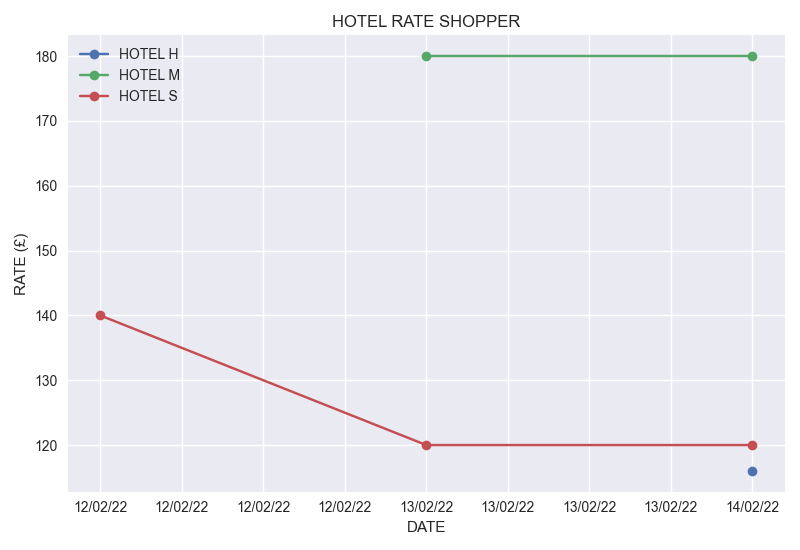
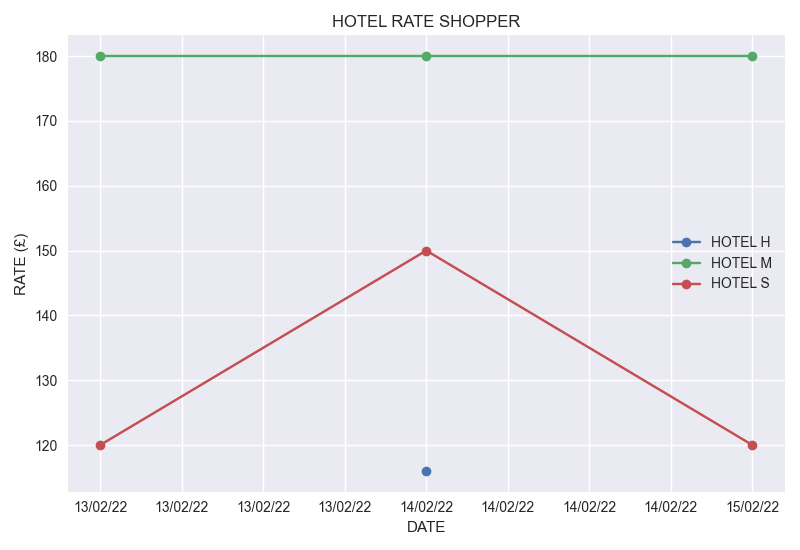
working

diff --git a/gui.py b/gui.py
@@ -2,10 +2,19 @@ import tkinter as tk
 from tkinter import ttk
 from tkcalendar import Calendar
 
+from datetime import date
+
+from selenium import webdriver
+
+from functions import get_hotel_m_rate, get_hotel_h_rate, get_hotel_s_rate
+from charting import plot_chart
+
+import concurrent.futures
+
 root = tk.Tk()
 
 root.title("HOTEL RATE SHOPPER")
-root.geometry('600x400+50+50')
+root.geometry('600x300+50+50')
 
 s= ttk.Style()
 s.theme_use('clam')
@@ -13,30 +22,27 @@ s.theme_use('clam')
 root.columnconfigure(0,weight=1)
 root.columnconfigure(1,weight=1)
 root.columnconfigure(2,weight=1)
-# root.rowconfigure(0,weight=1)
-# root.rowconfigure(1,weight=1)
-# root.rowconfigure(2,weight=1)
 
-start_date = ""
-end_date = ""
+start_date = tk.StringVar()
+end_date = tk.StringVar()
 
 def calender_func(arg):
     print(arg)
     def print_sel(): 
         selected_date = arg 
         if selected_date == "start":
-            start_date = cal.selection_get()
-            print(type(start_date), start_date)
-            label_date = ttk.Label(root, text = start_date)
-            label_date.grid(column=0, row=2,padx=5, pady=5)
+            start_date.set(cal.selection_get())
+            print(type(start_date), start_date.get())
+            start_box = ttk.Entry(root, textvariable = start_date)
+            start_box.grid(column=0, row=2,sticky="E", padx=5, pady=5)    
         else:
-            end_date = cal.selection_get()
-            print(type(end_date), end_date)
-            label_date = ttk.Label(root, text = end_date)
-            label_date.grid(column=2, row=2,padx=5, pady=5)
-        top.destroy()
+            end_date.set(cal.selection_get())
+            print(type(end_date), end_date.get())
+            end_box = ttk.Entry(root, textvariable = end_date)
+            end_box.grid(column=2, row=2,sticky="W",padx=5, pady=5)
         
-
+        top.destroy()
+            
     top = tk.Toplevel(root)
 
     cal = Calendar(top,
@@ -45,13 +51,42 @@ def calender_func(arg):
     cal.pack(fill="both", expand=True)
     ttk.Button(top, text="ok", command=print_sel).pack()
 
+def handleSubmit():
+    arr_date = date.fromisoformat(start_date.get())
+    dep_date = date.fromisoformat(end_date.get())
+    num_days = (dep_date - arr_date).days
+    s_x_axis, s_y_axis = get_hotel_s_rate(arr_date, num_days)
+   
+    #SETUP CHROME DRIVER
+    options = webdriver.ChromeOptions()
+    options.add_experimental_option('excludeSwitches', ['enable-logging'])
+    driver1 = webdriver.Chrome(options=options)
+    driver2 = webdriver.Chrome(options=options)
+
+    #FETHCING RATES IN PARALLEL BY LAUNCHING TWO BROWSER
+    with concurrent.futures.ThreadPoolExecutor() as executor:
+        future_m = executor.submit(get_hotel_m_rate, arr_date, num_days, driver1)
+        future_h = executor.submit(get_hotel_h_rate, arr_date, num_days, driver2)
+        (m_x_axis, m_y_axis) = future_m.result()
+        (h_x_axis, h_y_axis) = future_h.result()
+
+    driver1.close()
+    driver2.close()
+
+    plot_chart(h_x_axis, h_y_axis, m_y_axis, s_y_axis)
+
+
+
 title = ttk.Label(root, text="HOTEL RATE SHOPPER")
 title.grid(column=1, row=0, columnspan=1,padx=5, pady=50)
+
 start_button = ttk.Button(root, text='Start Date', command=lambda: calender_func("start"))
-start_button.grid(column=0, row=1, padx=5, pady=5)
+start_button.grid(column=0, row=1, sticky="E", padx=5, pady=5)
+
 end_button = ttk.Button(root, text='End Date', command=lambda: calender_func("end"))
-end_button.grid(column=2, row=1, padx=5, pady=5)
-submit_button = ttk.Button(root, text='Submit', command=lambda: print("submit"))
-submit_button.grid(column=1, row=2, padx=5, pady=5)
+end_button.grid(column=2, row=1, sticky="W", padx=5, pady=5)
+
+submit_button = ttk.Button(root, text='Submit', command=handleSubmit)
+submit_button.grid(column=1, row=3, padx=5, pady=5)
 
 root.mainloop()

diff --git a/functions.py b/functions.py
@@ -71,6 +71,8 @@ def get_hotel_h_rate(arrival, num_days, driver):
     return x_axis, y_axis
 
 def get_hotel_s_rate(arrival, num_days):
+    print("ARR", type(arrival))
+    print("NUM-FUNC", type(num_days))
     x_axis = []
     y_axis = []
     r = requests.get(f'{hotel_s_url}?start_date={arrival}&end_date={arrival+timedelta(days=num_days-1)}')
